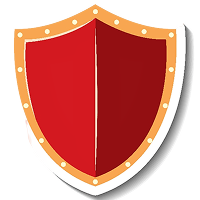
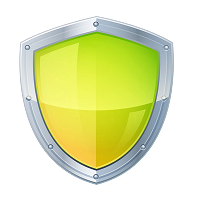
HUM-006: add context dataclass

diff --git a/game/core/classes/00_battleground_classes_ren.py b/game/core/classes/00_battleground_classes_ren.py
@@ -8,16 +8,16 @@ from random import sample, shuffle
 from typing import Literal
 
 
-def heal(player: Player, mob: Mob) -> None:
+def heal() -> None:
     player.restore_health()
 
 
-def defence(player: Player, mob: Mob) -> None:
+def defence() -> None:
     player.change_bonus_armor(1)
 
 
-def hit(player: Player, mob: Mob) -> None:
-    mob.take_damage(player.damage)
+def hit() -> None:
+    context.battle.mob.take_damage(player.damage)
 
 
 CARDS_MAP = {
@@ -44,8 +44,6 @@ class BattleGround:
     pending_close: bool = field(default=False, init=False)
     pending_recreate: bool = field(default=False, init=False)
     card_values: tuple[int, ...]
-    mob: Mob
-    player: Player
     clickable_states: set[str] = field(
         default_factory=lambda: {
             "closed",
@@ -82,11 +80,11 @@ class BattleGround:
 
     @property
     def is_victory(self) -> bool:
-        return self.mob.current_hp <= 0
+        return context.battle.mob.current_hp <= 0
 
     @property
     def is_defeated(self) -> bool:
-        return self.player.current_hp <= 0
+        return player.current_hp <= 0
 
     @property
     def current_card(self) -> BattleCard | None:
@@ -134,7 +132,7 @@ class BattleGround:
         self.pending_recreate = False
 
     def use_card_action(self):
-        self.current_card.action(self.player, self.mob)
+        self.current_card.action()
 
     def flip_card(self, position: int) -> None:
         flipped_card = self._cards[position]
@@ -152,8 +150,8 @@ class BattleGround:
                 self.clear_current_card()
             else:
                 self.pending_close = True
-                self.player.take_damage(self.mob.damage)
-                self.player.change_bonus_armor(-1)
+                player.take_damage(context.battle.mob.damage)
+                player.change_bonus_armor(-1)
                 self.clear_current_card()
 
     def close_pending(self) -> None:
@@ -165,8 +163,15 @@ class BattleGround:
 
     def check_victory(self, victory_label: str, defeated_label: str) -> None:
         if self.is_victory:
+            (self.clear_context(),)
             renpy.jump(victory_label)
         elif self.is_defeated:
+            self.clear_context()
             renpy.jump(defeated_label)
         elif self.matched_count == self.cards_number:
             self.pending_recreate = True
+
+    @staticmethod
+    def clear_context() -> None:
+        context.battle.mob = None
+        context.game_state.in_battle = False

diff --git a/game/core/classes/00_inventory_classes_ren.py b/game/core/classes/00_inventory_classes_ren.py
@@ -35,6 +35,9 @@ def add_potion() -> None:
             "inventory/potion_item.png",
             "potion",
             action="player_heal_potion_action",
+            usable_states=[
+                "in_battle",
+            ],
         )
     )
 
@@ -54,12 +57,18 @@ class BaseItem:
     icon: str
     image: str
     type: Literal["body", "hand", "head", "accessory", "potion"]
+    usable_states: list[str] = field(default_factory=list)
     description: str | None = None
     action: str | None = None
 
     @property
     def is_equipment(self) -> bool:
         return self.type in ["body", "hand", "head", "accessory"]
+
+    def check_usable(self, state: str) -> bool:
+        if state in self.usable_states:
+            return getattr(context.game_state, state, False)
+        return True
 
 
 @dataclass
@@ -151,6 +160,13 @@ class Inventory:
 
         self._slots_number -= number
 
+    def check_slot_usable(self, position: int) -> bool:
+        if self.is_slot_filled(position):
+            item = self._items[position]
+            return item.check_usable("in_battle")
+
+        return False
+
     def set_row_size(self, number: int) -> None:
         if number < 1:
             raise ValueError("row_size must be greater than 1")
@@ -215,7 +231,8 @@ class Inventory:
         if self.is_slot_filled(position):
             renpy.show_screen("item_screen", item=self.items[position])
 
-    def toggle_screen(self) -> None:
+    @staticmethod
+    def toggle_screen() -> None:
         if renpy.get_screen("inventory_screen"):
             renpy.hide_screen("inventory_screen")
         else:
@@ -244,12 +261,10 @@ class PlayerEquipmentSlot:
 @dataclass
 class PlayerEquipment:
     accessories_slots_number: int = 2
-    _body: PlayerEquipmentSlot | None = field(default=None, init=False)
-    _head: PlayerEquipmentSlot | None = field(default=None, init=False)
-    _hands: list[PlayerEquipmentSlot] = field(default_factory=list, init=False)
-    _accessories: list[PlayerEquipmentSlot] = field(
-        default_factory=list, init=False
-    )
+    _body: PlayerEquipmentSlot | None = field(init=False)
+    _head: PlayerEquipmentSlot | None = field(init=False)
+    _hands: list[PlayerEquipmentSlot] = field(init=False)
+    _accessories: list[PlayerEquipmentSlot] = field(init=False)
 
     def __post_init__(self) -> None:
         self._create_slots()

diff --git a/game/core/classes/context_classes_ren.py b/game/core/classes/context_classes_ren.py
@@ -1,0 +1,25 @@
+"""renpy
+init -990 python:
+"""
+
+from dataclasses import dataclass, field
+
+
+@dataclass
+class GameStateContext:
+    in_battle: bool = False
+
+
+@dataclass
+class BattleContext:
+    mob: Mob | None = None
+
+
+@dataclass
+class Context:
+    battle: BattleContext = field(init=False)
+    game_state: GameStateContext = field(init=False)
+
+    def __post_init__(self) -> None:
+        self.battle = BattleContext()
+        self.game_state = GameStateContext()
